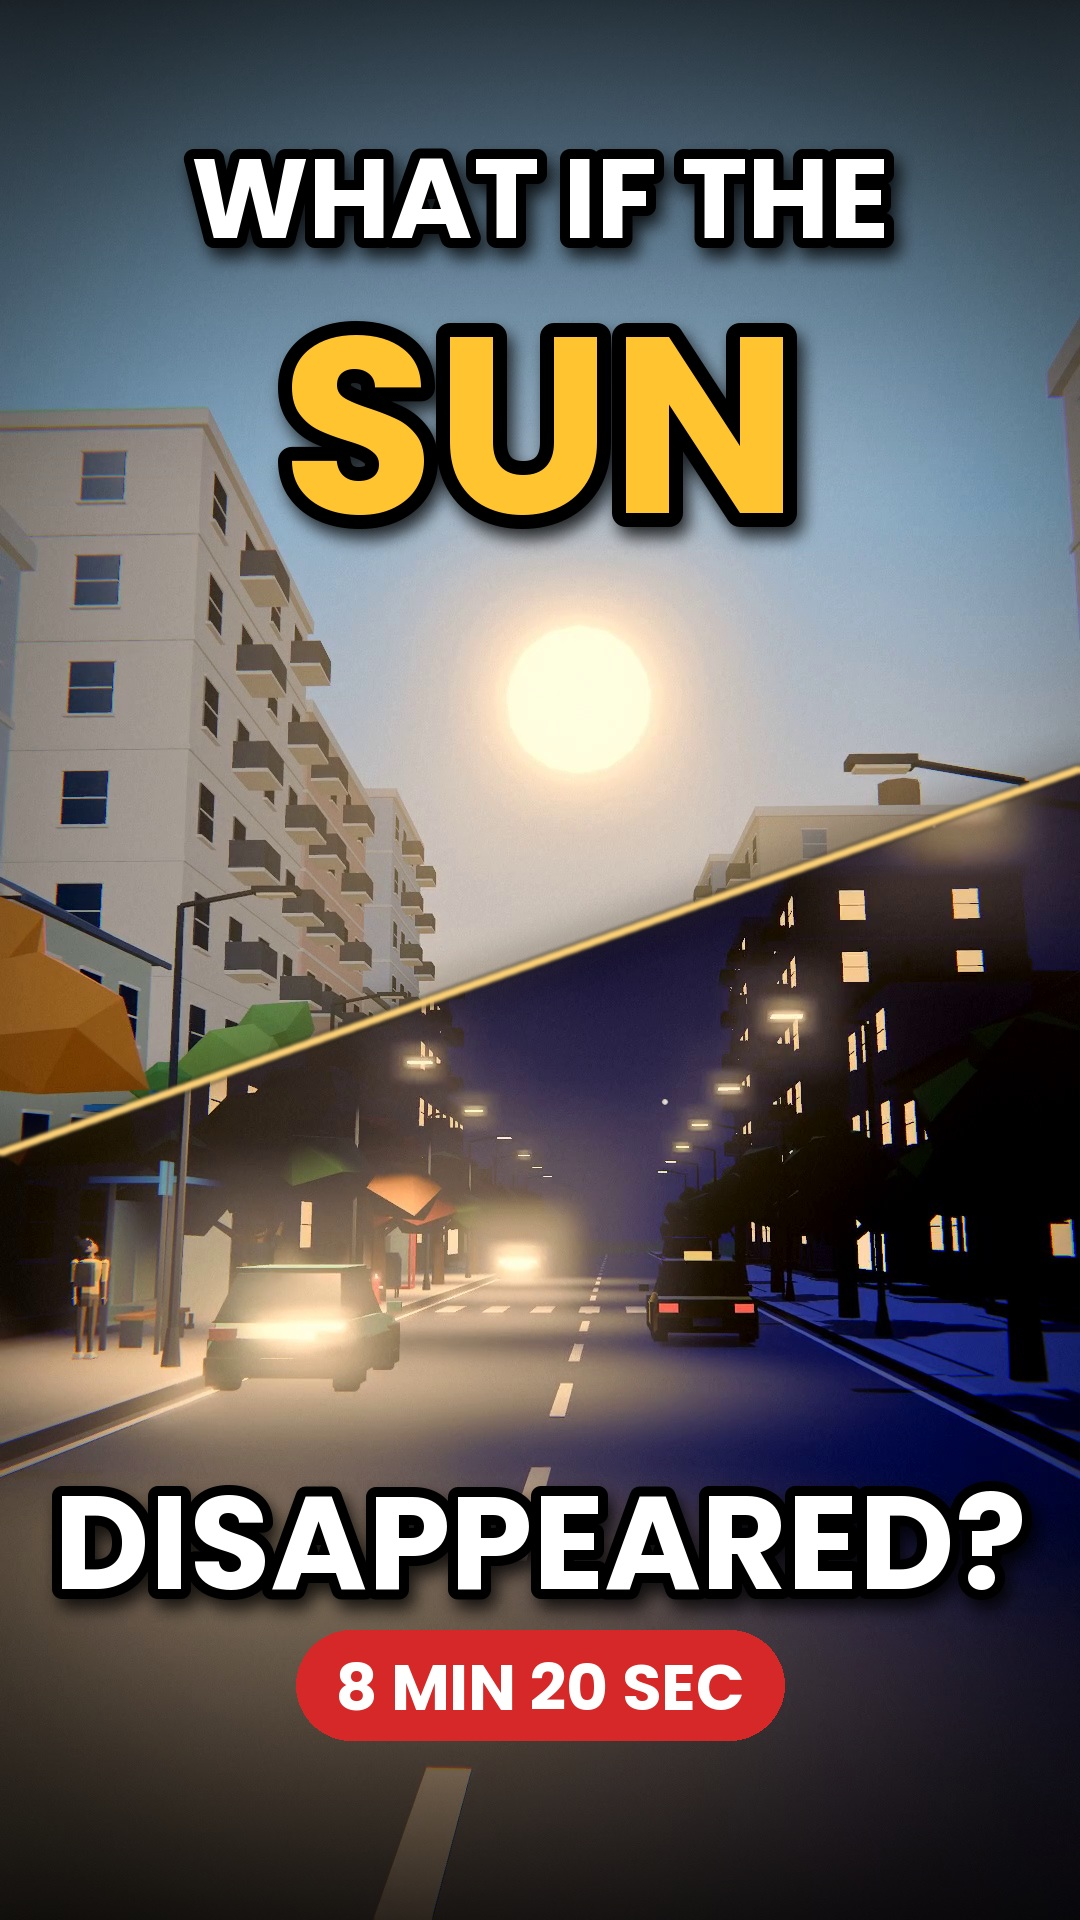
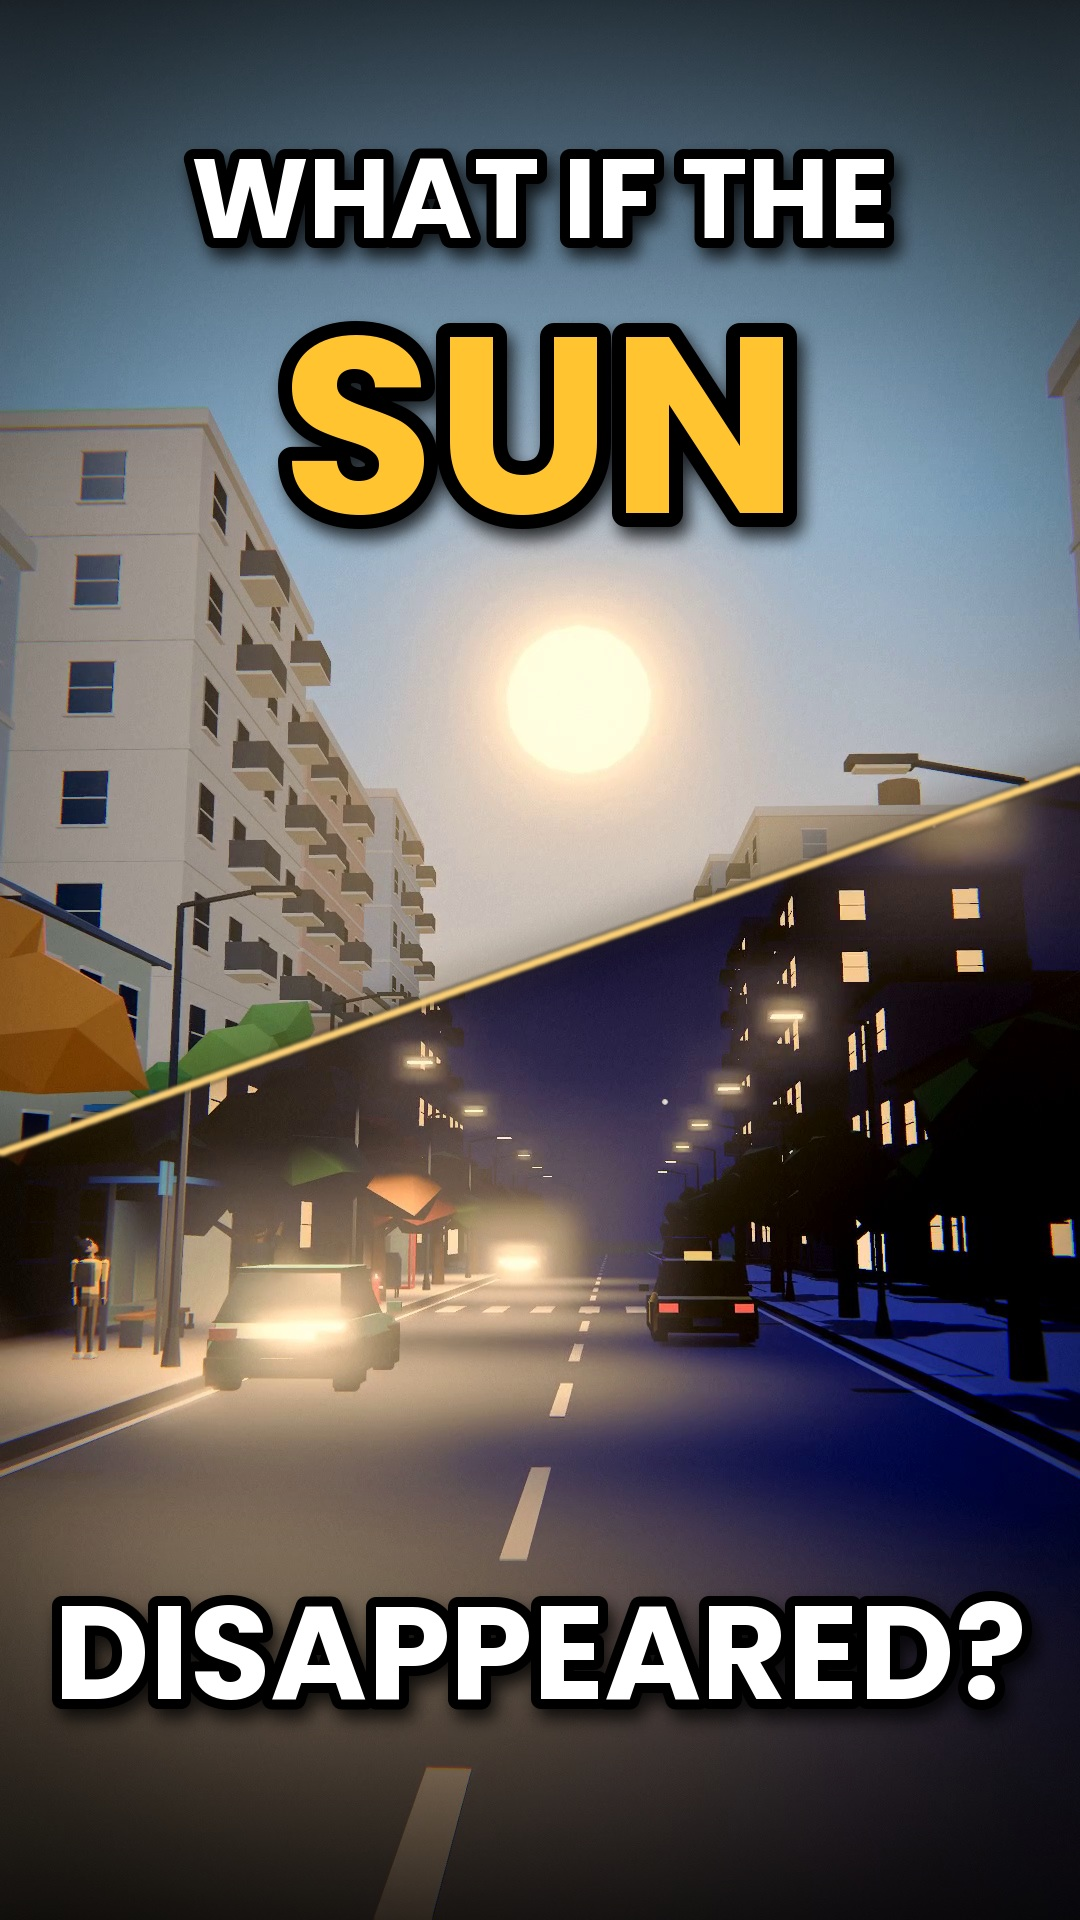
Thumbnail: remove time tag
Claude-Session: https://claude.ai/code/session_014qTixjXy2KWakztDauPMrw

Changed region(s): [[0.0306, 0.75, 0.9778, 0.9062]]

diff --git a/series/what-if/sun-vanished/thumbnail.py b/series/what-if/sun-vanished/thumbnail.py
@@ -32,10 +32,5 @@ def text(y, s, size, fill, stroke=10):
     ImageDraw.Draw(img).text(((W - w) / 2, y), s, font=f, fill=fill, stroke_width=stroke, stroke_fill=(0, 0, 0))
 text(120, 'WHAT IF THE', 112, (255, 255, 255))
 text(250, 'SUN', 250, (255, 196, 48), 14)
-text(H - 470, 'DISAPPEARED?', 132, (255, 255, 255))
-# timer pill
-f = ImageFont.truetype(F, 64); s = '8 MIN 20 SEC'; w = dr.textlength(s, font=f)
-x0, y0 = (W - w) / 2 - 40, H - 290
-ImageDraw.Draw(img).rounded_rectangle([x0, y0, x0 + w + 80, y0 + 110], radius=55, fill=(214, 40, 40))
-ImageDraw.Draw(img).text((x0 + 40, y0 + 12), s, font=f, fill=(255, 255, 255))
+text(H - 360, 'DISAPPEARED?', 132, (255, 255, 255))
 img.convert('RGB').save(sys.argv[1], quality=94)
